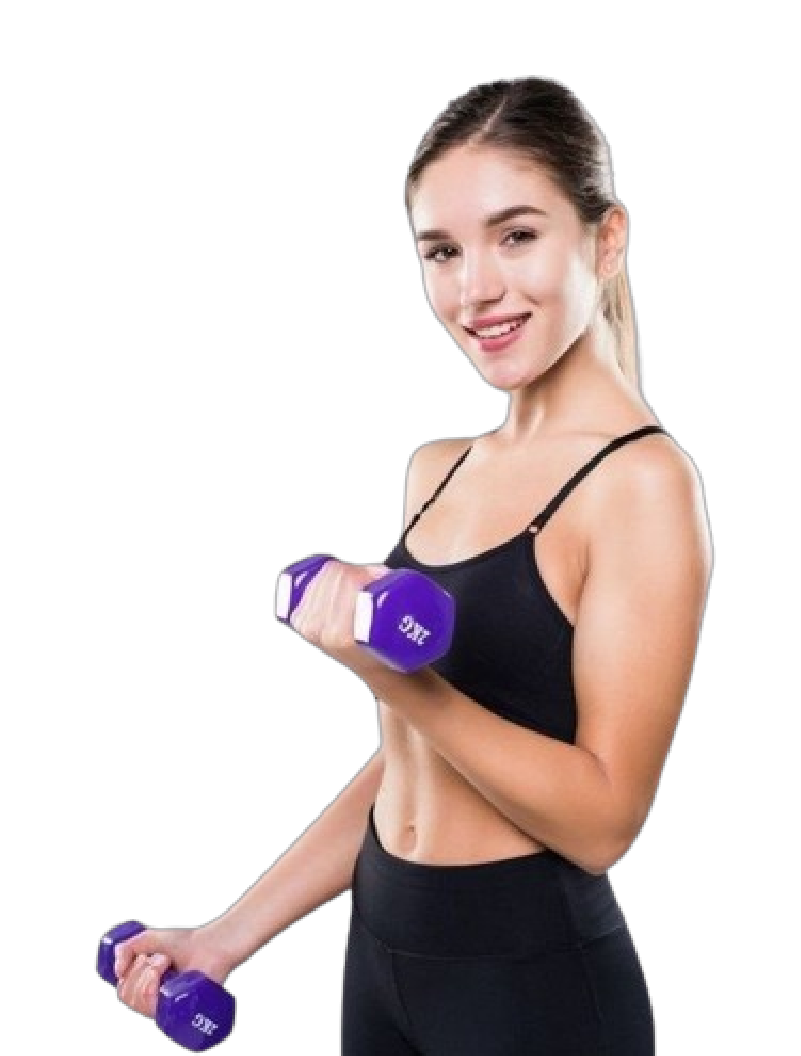
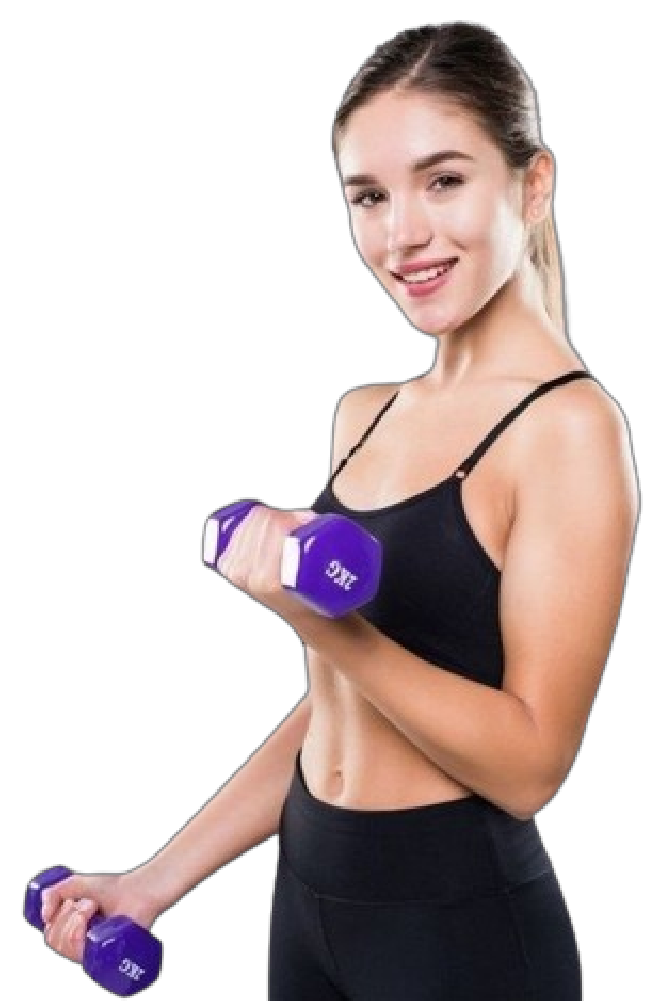
page-intro

Changed region(s): [[0.0304, 0.0, 0.9726, 1.0]]

diff --git a/page-intro-quiz.php b/page-intro-quiz.php
@@ -18,7 +18,15 @@ if ($custom_query->have_posts()) :
                     <div>Faire le quiz</div>
                 </div>
             </button>
-            <img src="<?php echo get_template_directory_uri(); ?>/assets/images/femme-intro.png" alt="flèche">
+
+            <style>
+            body {
+            background-image: url('http://localhost/wp-setforme/wp-content/uploads/2023/12/forme-intro-e1703010327893.png');
+            background-repeat: no-repeat; /* Empêche la répétition de l'image de fond */
+            background-position: right;
+            }
+            </style>
+
         </div>
 <?php
     endwhile;

diff --git a/page-resultats.php b/page-resultats.php
@@ -21,6 +21,7 @@ if ($custom_query->have_posts()) :
                     <img src="<?php echo get_template_directory_uri(); ?>/assets/images/hdc-1.png" alt="test" width="419" height="224" style="margin-left: 30px; margin-bottom: 50px;">
                 </div>
 
+
         </div>
 <?php
     endwhile;
